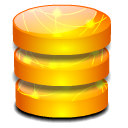
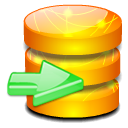
working on importer

diff --git a/application/views/dialog/importer.html b/application/views/dialog/importer.html
@@ -6,7 +6,8 @@
 	    this.node.window({
 		width: 800,
 		title: 'Импорт таблицы',
-		height: 600,
+		height: 700,
+		top:50,
 		onClose: function () {
 		    App.page_dialog_importer.node.window('destroy');
 		    App.page_dialog_importer.handler.notify('close');
@@ -15,6 +16,14 @@
 	    });
 	    this.label=this.data.label||'';
 	    $("#page_dialog_importer_label").val(this.label);
+	    this.initSelector();
+	},
+	initSelector:function(){
+	    this.assigned={};
+	    App.renderTpl('page_dialog_importer_selector',this.data);
+	    App.setupForm("#page_dialog_importer_frm").change(function(){
+		App.page_dialog_importer.assigned[this.name]=this.value;
+	    });
 	},
 	up:function(filelist){
 	    if( filelist.length ){
@@ -41,17 +50,14 @@
         throbber:function(show){
             show?$("#page_dialog_importer_throbber").show():$("#page_dialog_importer_throbber").hide();
         },
-	delete:function( mode ){
-	    if( mode==='all' ){
-		$('#page_dialog_importer_dg').datagrid('selectAll');
-	    }
+	delete:function(){
 	    var rows=$('#page_dialog_importer_dg').datagrid('getSelections');
 	    if( rows && confirm("Удалить выбранные строчки?") ){
 		var row_ids=[];
 		for(var i in rows){
 		    row_ids.push(rows[i].row_id);
 		}
-		$.post("Importer/impDelete/",{row_ids:row_ids.join(',')},function(ok){
+		$.post("Importer/deleteRows/",{row_ids:row_ids.join(',')},function(ok){
 		    if( ok*1 ){
 			App.flash("Удалено "+ok+" строк");
 			$('#page_dialog_importer_dg').datagrid('reload');
@@ -62,6 +68,18 @@
 	    }
 	    
 	},
+	deleteAll:function(){
+	    if( confirm("Удалить строчки с меткой '"+App.page_dialog_importer.label+"'?") ){
+		$.post("Importer/deleteAll/"+App.page_dialog_importer.label,function(ok){
+		    if( ok*1 ){
+			App.flash("Удалено строчки с меткой '"+App.page_dialog_importer.label+"'");
+			$('#page_dialog_importer_dg').datagrid('reload');
+		    } else {
+			App.flash("Не удалось удалить строки");
+		    }
+		});
+	    }
+	},
 	filter:function( node ){
 	    App.page_dialog_importer.label=node.value||'';
 	    $('#page_dialog_importer_dg').datagrid('reload');
@@ -71,56 +89,84 @@
 		success(App.json(xhr));
 	    });
 	}
-	
     };
 </script>
 <style>
     #page_dialog_importer_throbber img{
         position: absolute;
         z-index:10;
-        top: 130px;
+        top: 280px;
         left: 50%;
     }
 </style>
 <div id="page_dialog_importer_throbber" style="display: none;position: relative;" >
     <img src="img/throbber_1.gif">
 </div>
-<input type="file" id="page_dialog_importer_file" accept="text/*" style="display:none" onchange="App.page_dialog_importer.up(this.files)">
-    <div>
-	<span class="icon-24" style="background-image: url(img/truncate.png);background-repeat: no-repeat" title="Очистить таблицу" onclick="App.page_dialog_importer.delete('all');"> </span>
-	<span class="icon-24 icon-delete" title="Удалить выбранные строчки" onclick="App.page_dialog_importer.delete();"> </span>
-	<span class="icon-24" style="background-image: url(img/file_upload.png);background-repeat: no-repeat" title="Отправить файл" onclick="$('#page_dialog_importer_file').click();"> </span>
-	<span class="icon-24 icon-refresh" title="Обновить" onclick="$('#page_dialog_importer_dg').datagrid('reload')"> </span>
-	<input id="page_dialog_importer_label" onkeyup="App.page_dialog_importer.filter(this)">
-    </div>
-    <table id="page_dialog_importer_dg" class="easyui-datagrid" data-options="
-	    loader:App.page_dialog_importer.loader,
-	    height:500,
-	    rownumbers:true,
-	    autoRowHeight:false,
-	    pagination:true,
-	    pageSize:100,
-	    pageList:[100,500],
-	    pagePosition:'bottom'">
-	<thead>
-	    <tr>
-		<th data-options="field:'label',width:50">метка</th>
-		<th data-options="field:'A',width:150">A</th>
-		<th data-options="field:'B',width:150">B</th>
-		<th data-options="field:'C',width:150">C</th>
-		<th data-options="field:'D',width:150">D</th>
-		<th data-options="field:'E',width:150">E</th>
-		<th data-options="field:'F',width:150">F</th>
-		<th data-options="field:'G',width:150">G</th>
-		<th data-options="field:'H',width:150">H</th>
-		<th data-options="field:'I',width:150">I</th>
-		<th data-options="field:'K',width:150">K</th>
-		<th data-options="field:'L',width:150">L</th>
-		<th data-options="field:'M',width:150">M</th>
-		<th data-options="field:'N',width:150">N</th>
-		<th data-options="field:'O',width:150">O</th>
-		<th data-options="field:'P',width:150">P</th>
-		<th data-options="field:'Q',width:150">Q</th>
-	    </tr>
-	</thead>
-    </table>
+<input type="file" id="page_dialog_importer_file" style="display:none" onchange="App.page_dialog_importer.up(this.files)">
+<div id="page_dialog_importer_selector" style="padding: 3px;">
+    <button style="float:left;">
+	<img src="img/database.png" style="height: 90px;width: auto;"><br>Импортировать
+    </button>
+    <form id="page_dialog_importer_frm">
+    {{fields_to_import}}
+	<select name="{{field}}" title="{{name}} " style="width:50px;">
+	    <option>-</option>
+	    <option>A</option>
+	    <option>B</option>
+	    <option>C</option>
+	    <option>D</option>
+	    <option>E</option>
+	    <option>F</option>
+	    <option>G</option>
+	    <option>H</option>
+	    <option>I</option>
+	    <option>K</option>
+	    <option>L</option>
+	    <option>M</option>
+	    <option>N</option>
+	    <option>O</option>
+	    <option>P</option>
+	    <option>Q</option>
+	</select>
+    {{/fields_to_import}}
+    </form>
+</div>
+<div style="clear: both;border-bottom: 1px solid #999;margin-top: 4px;"></div>
+<div style="text-align: right;padding: 3px;clear: left;">
+    <div style="display: inline-block;line-height: 26px;margin-top: 0px;float: left">Выбранная метка: <input id="page_dialog_importer_label" style="width: 50px;" title="Выбранная метка" onkeyup="App.page_dialog_importer.filter(this)"></div>
+    <span class="icon-24" style="background-image: url(img/truncate.png);background-repeat: no-repeat" title="Очистить таблицу" onclick="App.page_dialog_importer.deleteAll();"> </span>
+    <span class="icon-24 icon-delete" title="Удалить выбранные строчки" onclick="App.page_dialog_importer.delete();"> </span>
+    <span class="icon-24" style="background-image: url(img/file_upload.png);background-repeat: no-repeat" title="Отправить файл" onclick="$('#page_dialog_importer_file').click();"> </span>
+    <span class="icon-24 icon-refresh" title="Обновить" onclick="$('#page_dialog_importer_dg').datagrid('reload')"> </span>
+</div>
+<table id="page_dialog_importer_dg" class="easyui-datagrid" data-options="
+	loader:App.page_dialog_importer.loader,
+	height:500,
+	rownumbers:true,
+	autoRowHeight:false,
+	pagination:true,
+	pageSize:100,
+	pageList:[100,500],
+	pagePosition:'bottom'">
+    <thead>
+	<tr>
+	    <th data-options="field:'label',width:50">метка</th>
+	    <th data-options="field:'A',width:180">A</th>
+	    <th data-options="field:'B',width:180">B</th>
+	    <th data-options="field:'C',width:180">C</th>
+	    <th data-options="field:'D',width:180">D</th>
+	    <th data-options="field:'E',width:180">E</th>
+	    <th data-options="field:'F',width:180">F</th>
+	    <th data-options="field:'G',width:180">G</th>
+	    <th data-options="field:'H',width:180">H</th>
+	    <th data-options="field:'I',width:180">I</th>
+	    <th data-options="field:'K',width:180">K</th>
+	    <th data-options="field:'L',width:180">L</th>
+	    <th data-options="field:'M',width:180">M</th>
+	    <th data-options="field:'N',width:180">N</th>
+	    <th data-options="field:'O',width:180">O</th>
+	    <th data-options="field:'P',width:180">P</th>
+	    <th data-options="field:'Q',width:180">Q</th>
+	</tr>
+    </thead>
+</table>

diff --git a/js/app.js b/js/app.js
@@ -11,7 +11,26 @@ var App = {
 	App.snooze();
     },
     snooze:function(){
-	App.loadWindow('page/dialog/importer',{label:'baycik'}).progress(function(status){
+	var f=[
+	    {name:'Код товара',field:'product_code'},
+	    {name:'Код товара',field:'product_code'},
+	    {name:'Код товара',field:'product_code'},
+	    {name:'Код товара',field:'product_code'},
+	    {name:'Код товара',field:'product_code'},
+	    {name:'Код товара',field:'product_code'},
+	    {name:'Код товара',field:'product_code'},
+	    {name:'Код товара',field:'product_code'},
+	    {name:'Код товара',field:'product_code'},
+	    {name:'Код товара',field:'product_code'},
+	    {name:'Код товара',field:'product_code'},
+	    {name:'Код товара',field:'product_code'},
+	    {name:'Код товара',field:'product_code'},
+	    {name:'Код товара',field:'product_code'},
+	    {name:'Код товара',field:'product_code'},
+	    {name:'Код товара',field:'product_code'}
+	];
+	
+	App.loadWindow('page/dialog/importer',{label:'baycik',fields_to_import:f}).progress(function(status){
 	    if( status==='close' )
 		setTimeout(function(){App.snooze();},100);
 	});

diff --git a/application/models/Importer.php b/application/models/Importer.php
@@ -6,8 +6,13 @@ class Importer extends Catalog{
 	$page=$this->request('page','int',1);
 	$rows=$this->request('rows','int',50);
 	$this->check($label);
+	if( $label ){
+	    $where="WHERE label='$label'";
+	} else {
+	    $where='';
+	}
 	$total=$this->get_value("SELECT COUNT(*) FROM imported_data WHERE label='$label'");
-	$entries=$this->get_list("SELECT * FROM imported_data WHERE label='$label' LIMIT $rows OFFSET ".(($page-1)*$rows));
+	$entries=$this->get_list("SELECT * FROM imported_data $where LIMIT $rows OFFSET ".(($page-1)*$rows));
 	return ['rows'=>$entries,'total'=>$total];
     }
     public function up( $label='' ){
@@ -35,9 +40,19 @@ class Importer extends Catalog{
 	}
         return 'error'.$_FILES['upload_file']['error'];
     }
-    public function impDelete(){
+    public function deleteRows(){
 	$row_ids=$this->request('row_ids','[\d,]+');
 	$this->query("DELETE FROM imported_data WHERE row_id IN ($row_ids)");
+	return $this->db->affected_rows();
+    }
+    public function deleteAll( $label='' ){
+	$this->check($label,'[\w_\d]+');
+	if( $label ){
+	    $where="WHERE label='$label'";
+	} else {
+	    $where='';
+	}
+	$this->query("DELETE FROM imported_data $where");
 	return $this->db->affected_rows();
     }
 }
